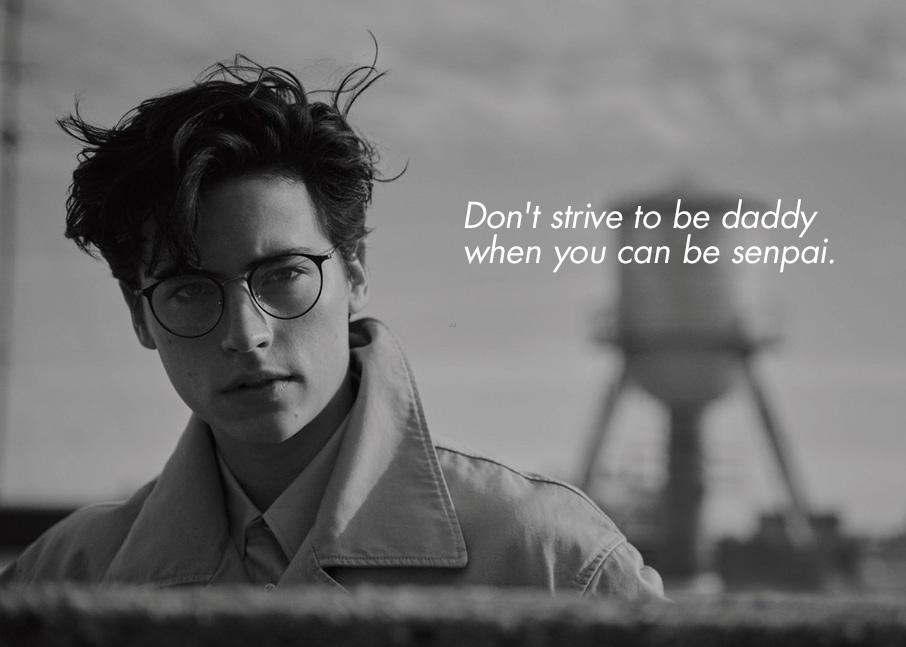
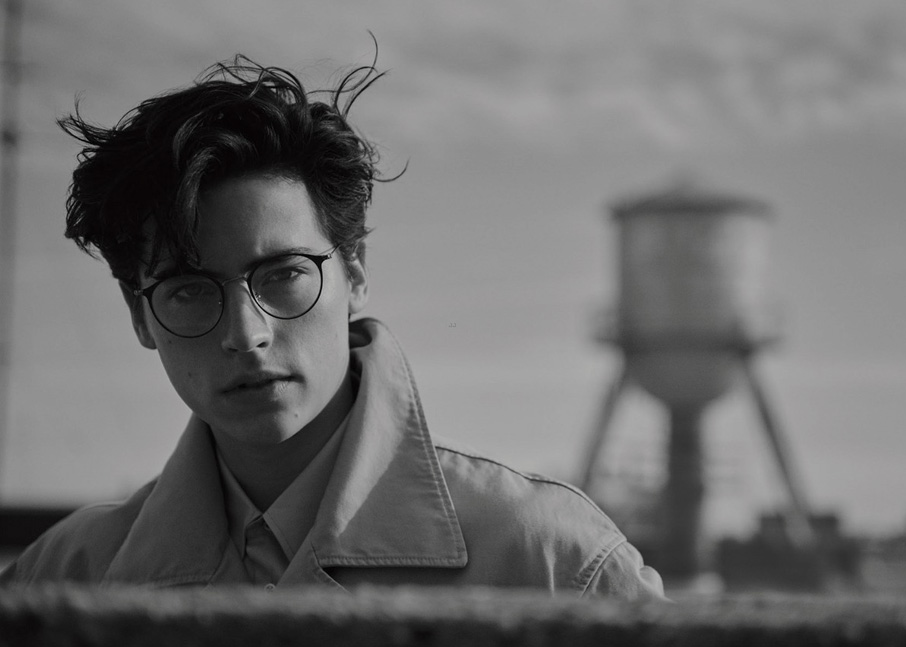
Add files via upload

Changed region(s): [[0.4945, 0.3091, 0.9272, 0.4328]]

diff --git a/postcards/responsive/page3.html b/postcards/responsive/page3.html
@@ -13,13 +13,15 @@
 	<head>
 		<title>Cole Sprouse Postcards</title>
 		<meta name="viewport" content="width=device-width,initial-scale=1.0">
-		<link rel="stylesheet" href="css/styles.css">
+		<link rel="stylesheet" href="css-page3/styles.css">
 	</head>
 	<body>
-		<p>"I'm not that little girl from Disney anymore. I'm a full grown woman now."
+		<p>"Don't strive to be daddy
+		<br>
+		when you can be senpai."
 		<br>
 		- Cole Sprouse
 		</p>
-		<a href="page2.html"></a>
+		<a href="index.html"></a>
 	</body>
 </html>

diff --git a/postcards/responsive/css-page3/styles.css b/postcards/responsive/css-page3/styles.css
@@ -1,10 +1,5 @@
-/**.container img {
-	width:100%;
-	background-size:contain;
-}**/
-
 body {
-	background-image:url("../images/disney-web.jpg");
+	background-image:url("../images/love-web.jpg");
 	background-size:cover;
 	background-repeat:no-repeat;
 }
@@ -14,9 +9,9 @@ p {
 	color:white;
 	font-weight:200;
 	font-style:italic;
-	margin-top:30%;
-	margin-right:65%;
-	margin-left:10%;
+	margin-top:10%;
+	margin-right:10%;
+	margin-left:55%;
 	font-size:1.5em;
 }
 

diff --git a/postcards/responsive/css-page2/styles.css b/postcards/responsive/css-page2/styles.css
@@ -1,10 +1,5 @@
-/**.container img {
-	width:100%;
-	background-size:contain;
-}**/
-
 body {
-	background-image:url("../images/disney-web.jpg");
+	background-image:url("../images/daddy-web.jpg");
 	background-size:cover;
 	background-repeat:no-repeat;
 }
@@ -15,8 +10,8 @@ p {
 	font-weight:200;
 	font-style:italic;
 	margin-top:30%;
-	margin-right:65%;
-	margin-left:10%;
+	margin-right:10%;
+	margin-left:50%;
 	font-size:1.5em;
 }
 

diff --git a/postcards/responsive/page2.html b/postcards/responsive/page2.html
@@ -12,8 +12,14 @@
 	</style>
 	<head>
 		<title>Cole Sprouse Postcards</title>
+		<meta name="viewport" content="width=device-width,initial-scale=1.0">
+		<link rel="stylesheet" href="css-page2/styles.css">
 	</head>
 	<body>
+		<p>"Don't strive to be daddy when you can be senpai."
+		<br>
+		- Cole Sprouse
+		</p>
 		<a href="page3.html"></a>
 	</body>
 </html>
